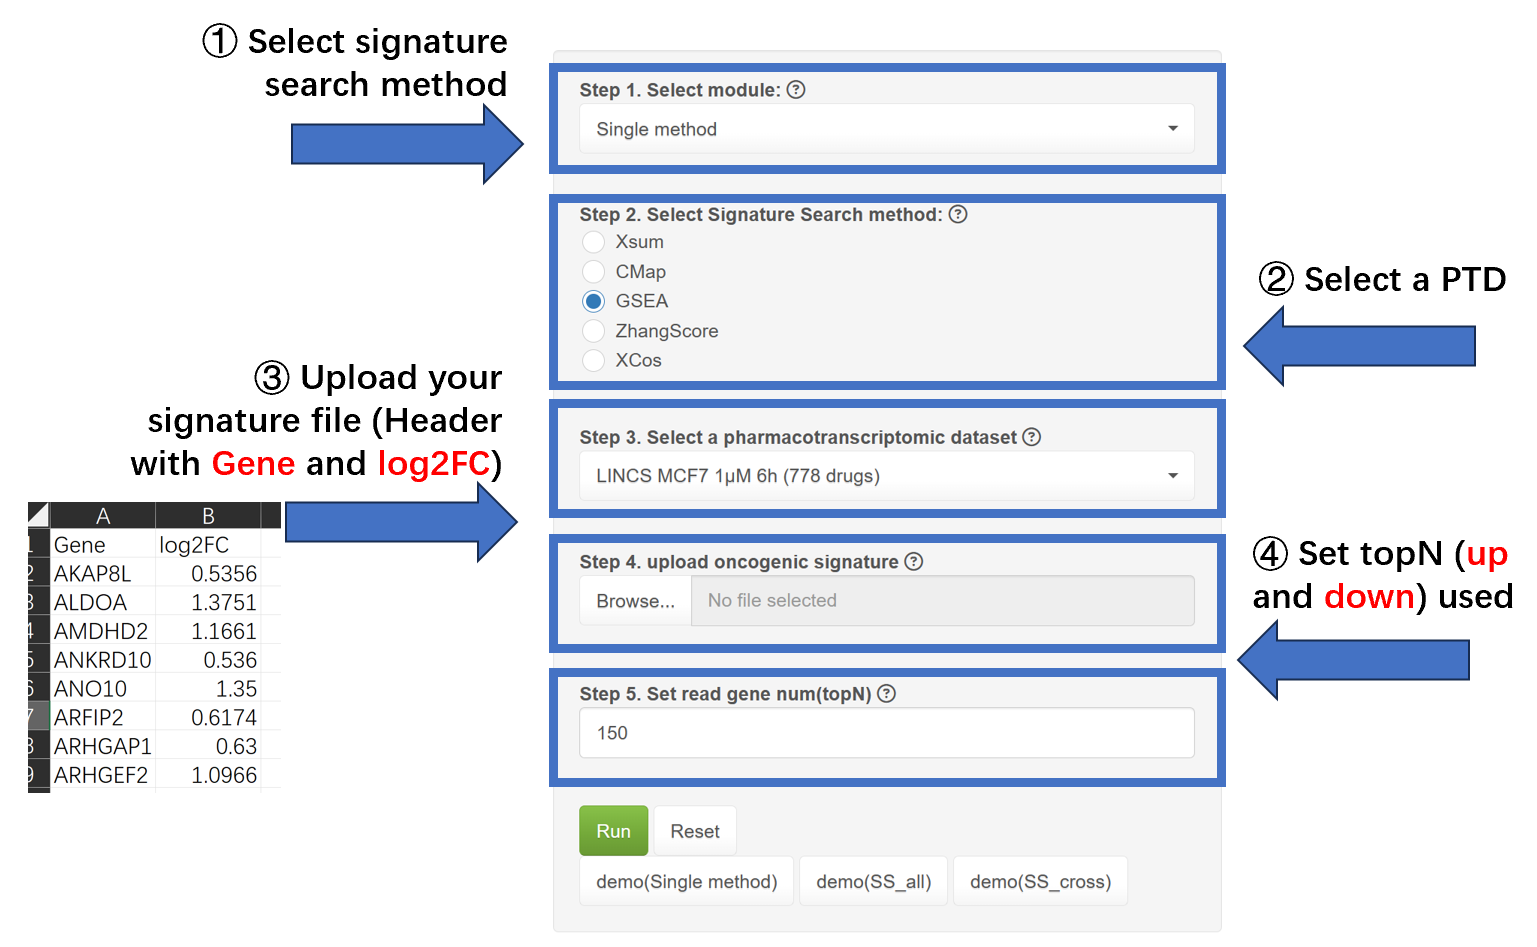
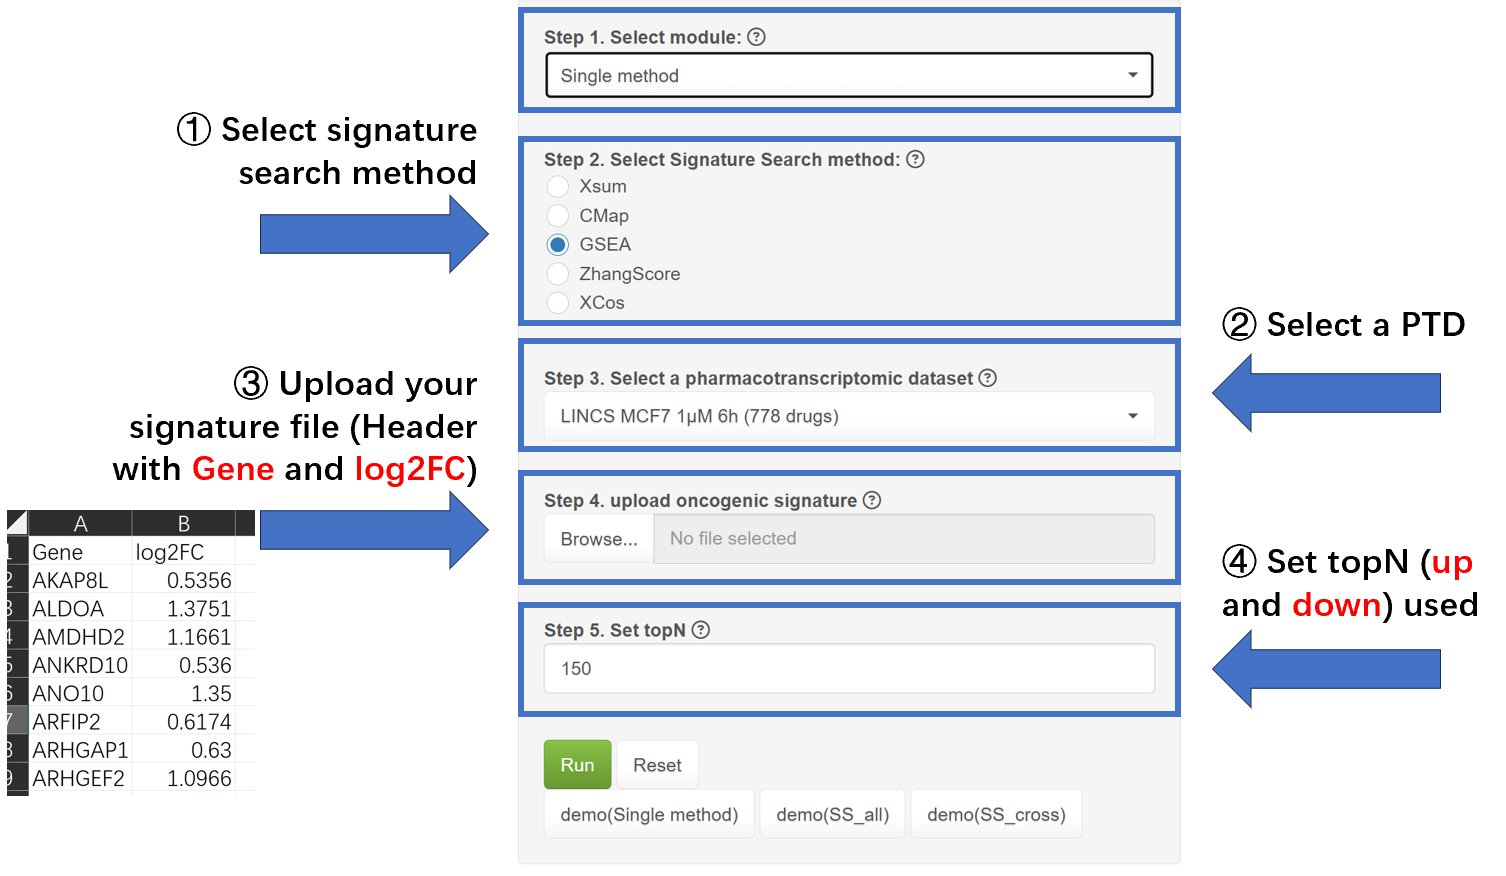
文字表述修改

Changed region(s): [[0.0, 0.0, 0.9987, 0.9555]]

diff --git a/www/info_Q3.md b/www/info_Q3.md
@@ -3,21 +3,18 @@ The Robustness module enables the evaluation of signature search methods (SSMs) 
 In the **Benchmark module**, we tested SSMs based on drug annotations.  
 However, the drug repurposing of a rare cancer subtype can be challenging by insufficient drug annotations within pharmacotranscriptomic datasets (PTDs).   
 Hence, we test the performance of SSMs based on **drug self-retrieval**.  
-Briefly, we labeled these drugs from 1 to N (N being the order of drugs in one set).  
-For each drug profile, we extracted the top x up-regulated and top x down-regulated DEGs and defined them as a signature. This signature was then queried into one of the SSMs to obtain the matching scores of these drugs.  
-We then ranked the drugs based on their scores.  
-To evaluate the robustness of these methods at different x values, three parameters were used:  
-**1. Correlation (R) of the input and top1 output for all drugs.**  
-**2. The mean of the difference scores between the top 1 and top 2 outputs.**  
-**3. The standard deviation (SD) of the difference between the scores of the top 1 and top 2 outputs.**  
-Finally, the drug retrieval performance score can be expressed by the following formula:
+Drugs within the same pharmacotranscriptomic dataset in the LINCS L1000 dataset were assigned labels ranging from **1 to n**. For each drug, the top x up-regulated and top x down-regulated **(topN)** differentially expressed genes were extracted from its gene expression profile to form a signature.    
+These signatures were then used to query one of the five SSMs, yielding **drug-drug metrics across all drugs**. Subsequently, by **varying topN and SSM, we obtained drug-drug metrics for each drug's signature derived from its expression profile under different SSMs and topN values within dataset**. We then identified the top two scoring drug-drug metrics. To assess the robustness of these methods across various topN values, we employed three parameters:   
+**1. The correlation (R) between the input label and the top-ranked output label for all drugs, for example, drug1 input with drug1 top-ranked output, for specific topN and SSM.**   
+**2. The mean difference between the top two scores (Score~top1~ – Score~top2~) across outputs for a specific topN and SSM.**   
+**3. Standard deviation (SD) of all difference of top1 and top2 (Score~top1~ – Score~top2~) across outputs for a specific topN and SSM.**   
+Finally, the Performance score can be expressed by the following formula:  
 
 $$ 
 performance \ score = \frac{Mean × R}{SD} 
 $$
 
-A satisfactory performance is achieved if the method **accurately returns the input drug (stronger correlation)** and **distinguishes well between drugs (more significant difference score) and maintains good stability (lower SD)**.  
-In this study, we tested performance scores for the cases of x at 10, 20, 30 ... 480, respectively.   
+SSM and topN can be considered to have achieved satisfactory performance **if they can accurately identify the input active drug (stronger correlation), effectively differentiate between drugs (higher difference score), and demonstrate good stability (lower SD).** Hence, **a higher score means a better SSM and a suitable topN.** In this study, performance scores were evaluated for x values ranging from 10 to 480 in increments of 10.   
 
 Select a PTD to review the performance of SSMs, and a 'Quick Tip' will be available for result interpretation.  
 

diff --git a/www/tab_robustness.md b/www/tab_robustness.md
@@ -3,21 +3,18 @@ The Robustness module enables the evaluation of signature search methods (SSMs) 
 In the **Benchmark module**, we tested SSMs based on drug annotations.  
 However, the drug repurposing of a rare cancer subtype can be challenging by insufficient drug annotations within pharmacotranscriptomic datasets (PTDs).   
 Hence, we test the performance of SSMs based on **drug self-retrieval**.  
-Briefly, we labeled these drugs from 1 to N (N being the order of drugs in one set).  
-For each drug profile, we extracted the top x up-regulated and top x down-regulated DEGs and defined them as a signature. This signature was then queried into one of the SSMs to obtain the matching scores of these drugs.  
-We then ranked the drugs based on their scores.  
-To evaluate the robustness of these methods at different x values, three parameters were used:  
-**1. Correlation (R) of the input and top1 output for all drugs.**  
-**2. The mean of the difference scores between the top 1 and top 2 outputs.**  
-**3. The standard deviation (SD) of the difference between the scores of the top 1 and top 2 outputs.**  
-Finally, the drug retrieval performance score can be expressed by the following formula:
+Drugs within the same pharmacotranscriptomic dataset in the LINCS L1000 dataset were assigned labels ranging from **1 to n**. For each drug, the top x up-regulated and top x down-regulated **(topN)** differentially expressed genes were extracted from its gene expression profile to form a signature.    
+These signatures were then used to query one of the five SSMs, yielding **drug-drug metrics across all drugs**. Subsequently, by **varying topN and SSM, we obtained drug-drug metrics for each drug's signature derived from its expression profile under different SSMs and topN values within dataset**. We then identified the top two scoring drug-drug metrics. To assess the robustness of these methods across various topN values, we employed three parameters:   
+**1. The correlation (R) between the input label and the top-ranked output label for all drugs, for example, drug1 input with drug1 top-ranked output, for specific topN and SSM.**   
+**2. The mean difference between the top two scores (Score~top1~ – Score~top2~) across outputs for a specific topN and SSM.**   
+**3. Standard deviation (SD) of all difference of top1 and top2 (Score~top1~ – Score~top2~) across outputs for a specific topN and SSM.**   
+Finally, the Performance score can be expressed by the following formula:  
 
 $$ 
 performance \ score = \frac{Mean × R}{SD} 
 $$
 
-A satisfactory performance is achieved if the method **accurately returns the input drug (stronger correlation)** and **distinguishes well between drugs (more significant difference score) and maintains good stability (lower SD)**.  
-In this study, we tested performance scores for the cases of x at 10, 20, 30 ... 480, respectively.   
+SSM and topN can be considered to have achieved satisfactory performance **if they can accurately identify the input active drug (stronger correlation), effectively differentiate between drugs (higher difference score), and demonstrate good stability (lower SD).** Hence, **a higher score means a better SSM and a suitable topN.** In this study, performance scores were evaluated for x values ranging from 10 to 480 in increments of 10.   
 
 Select a PTD to review the performance of SSMs, and a 'Quick Tip' will be available for result interpretation.  
 

diff --git a/www/info_homepage.md b/www/info_homepage.md
@@ -4,7 +4,7 @@
 SSP is structured around **three primary modules** and **four auxiliary modules**. You can access the respective modules by clicking on the navigation bar buttons or the module buttons on the home page.    
    
 <div style="padding: 10px; text-align: center;">
-<img src="imginfohomepage1.PNG" width = "100%" height = "100%" />
+<img src="imginfohomepage1.png" width = "100%" height = "100%" />
 </div>
 
 Each module is accompanied by a detailed guide on the right panel.   
